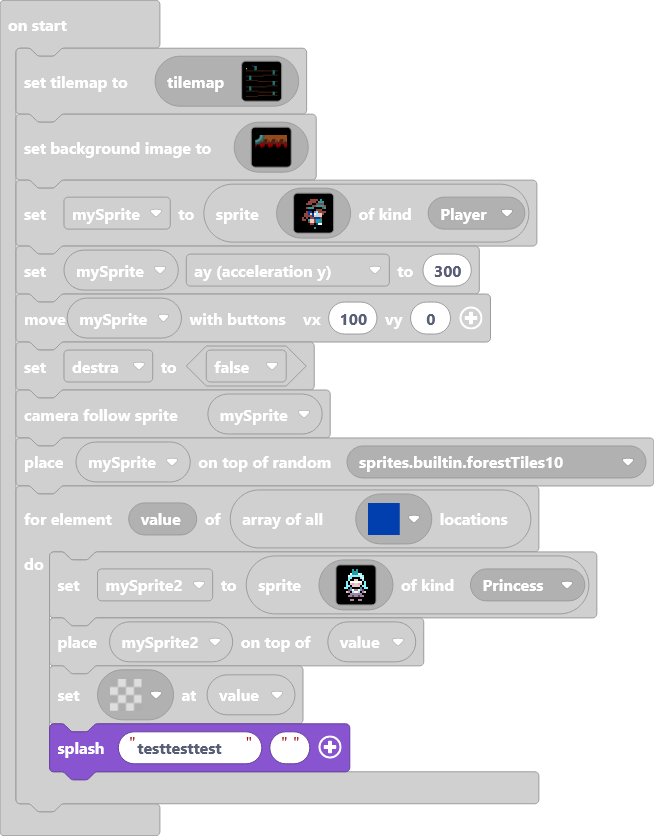
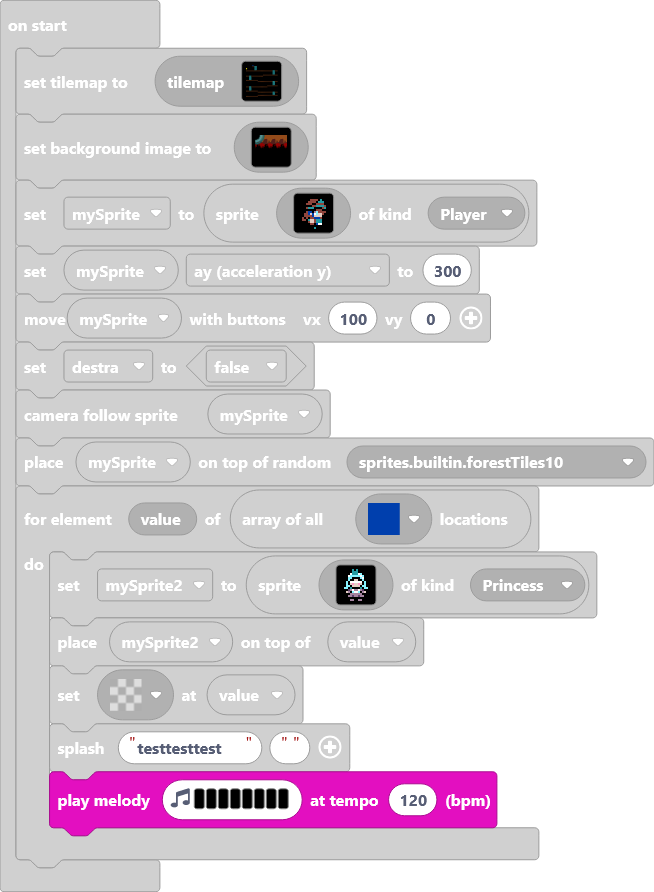
coommitttessst

Changed region(s): [[0.0306, 0.0311, 1.0, 0.9641], [0.0306, 0.0311, 0.0612, 0.0622]]

diff --git a/main.ts b/main.ts
@@ -202,6 +202,7 @@ for (let value of tiles.getTilesByType(assets.tile`tile4`)) {
     tiles.placeOnTile(mySprite2, value)
     tiles.setTileAt(value, assets.tile`transparency16`)
     game.splash("testtesttest")
+    music.playMelody("C5 C5 B B A A G G ", 120)
 }
 game.onUpdateInterval(1000, function () {
     palla_di_fuoco_4 = sprites.createProjectileFromSide(img`
